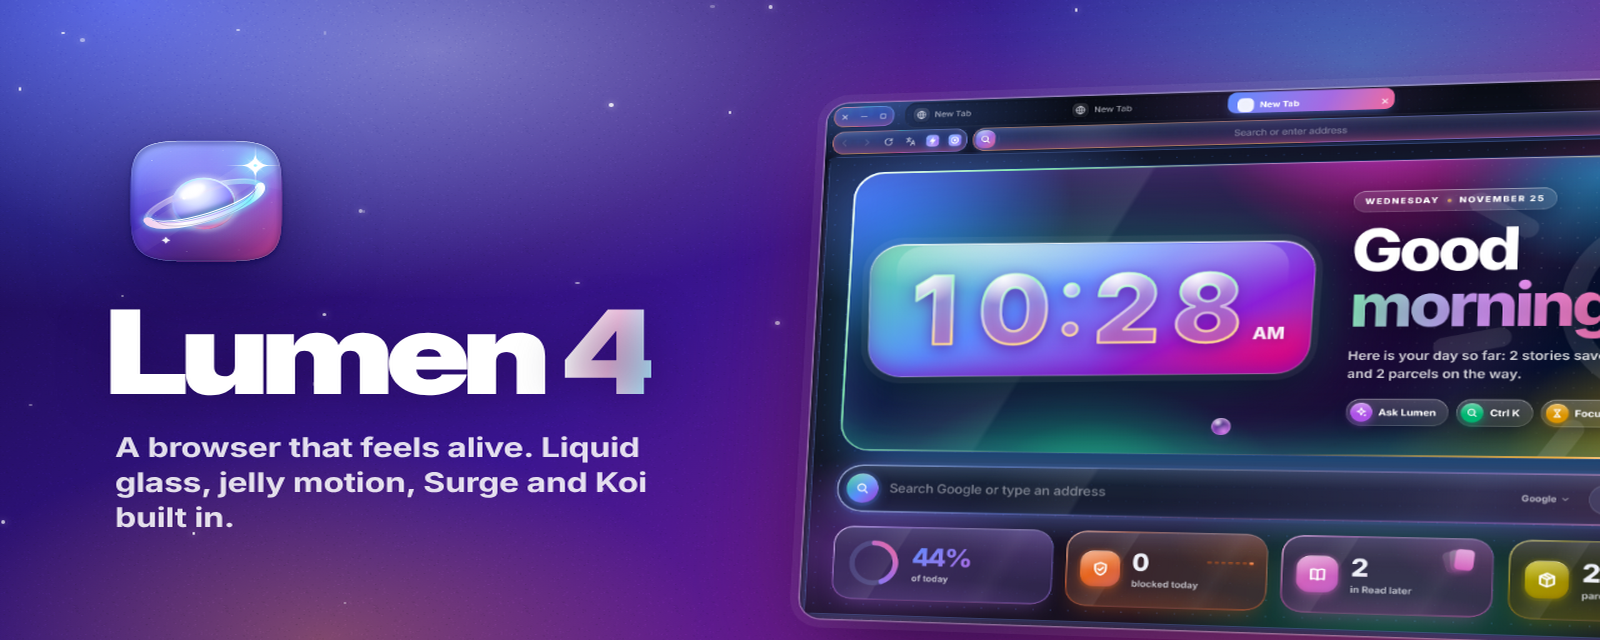
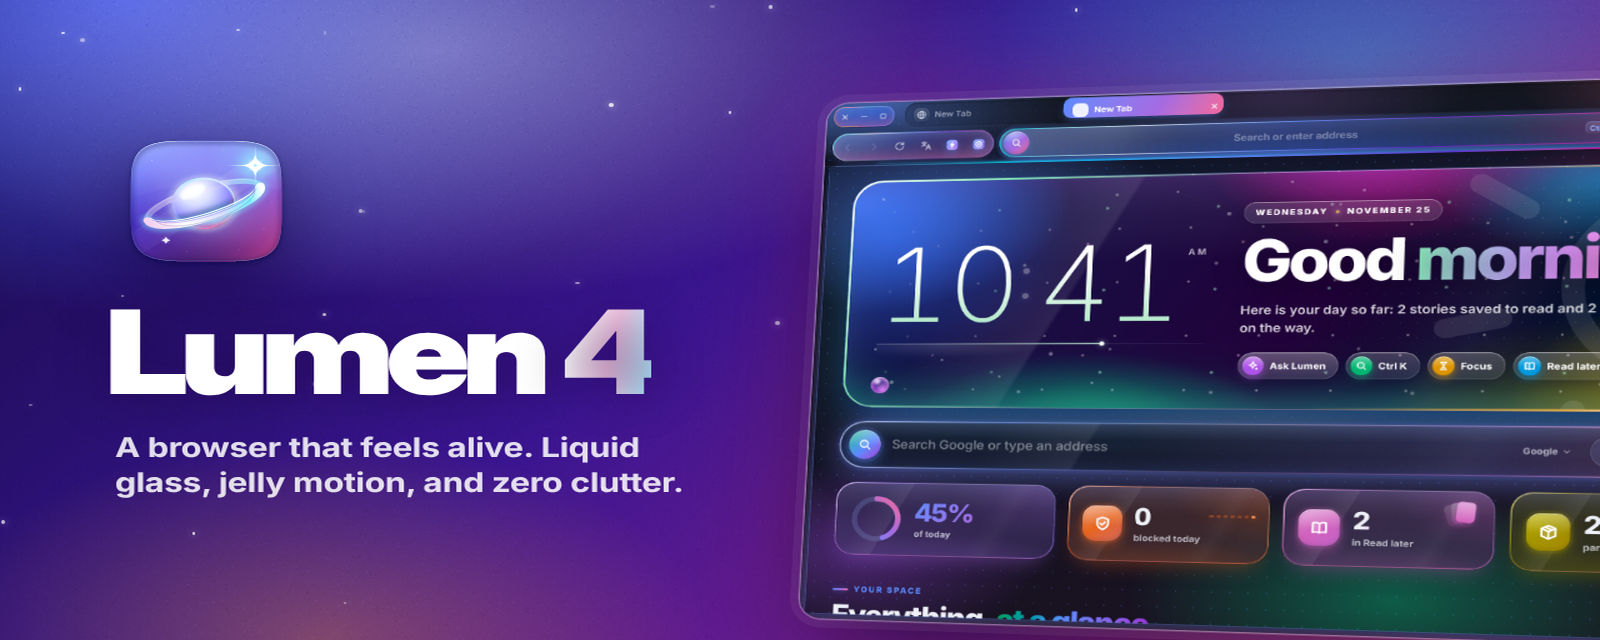
Release page hero: the new clock, no Surge and Koi line
Claude-Session: https://claude.ai/code/session_016io9pVZ6dJ8VMHbPwqrPds

Changed region(s): [[0.5, 0.125, 1.0, 1.0], [0.25, 0.7188, 0.4375, 0.7812], [0.0625, 0.7812, 0.1562, 0.8438]]

diff --git a/tools/installer-art/render.js b/tools/installer-art/render.js
@@ -16,7 +16,7 @@ const { svg: iconSvg } = require('../icons/icon.js')
 
 const ROOT = path.join(__dirname, '..', '..')
 const SHOTS = '/tmp/lumen-shots'
-const SHOT = process.env.SHOT || path.join(SHOTS, '41-home-dark.png')
+const SHOT = process.env.SHOT || path.join(SHOTS, '41b-home-clock-dark.png')
 app.disableHardwareAcceleration()
 
 const b64 = s => Buffer.from(s).toString('base64')
@@ -97,7 +97,7 @@ function heroHTML(shot) {
     <div class="grain"></div><div class="motes">${MOTES(60, 1600, 640, 1.4)}</div>
     ${shot ? `<img class="shot" src="${shot}">` : ''}
     <img class="ic" src="${ICON(512)}"><div class="t">Lumen <span>4</span></div>
-    <div class="s">A browser that feels alive. Liquid glass, jelly motion, Surge and Koi built in.</div>`
+    <div class="s">A browser that feels alive. Liquid glass, jelly motion, and zero clutter.</div>`
 }
 function docSvg(size) {
   // a glossy page with a folded corner, a colour band and the Lumen planet on it
